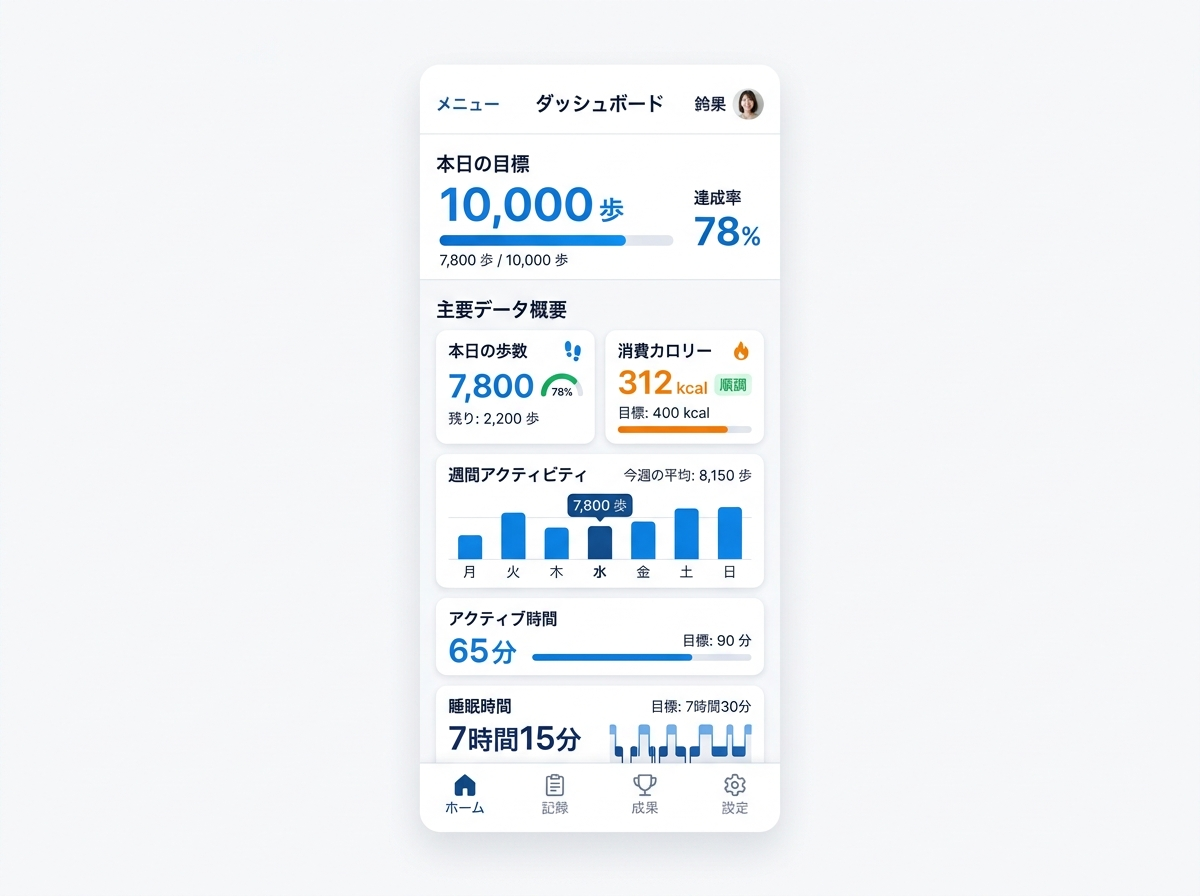
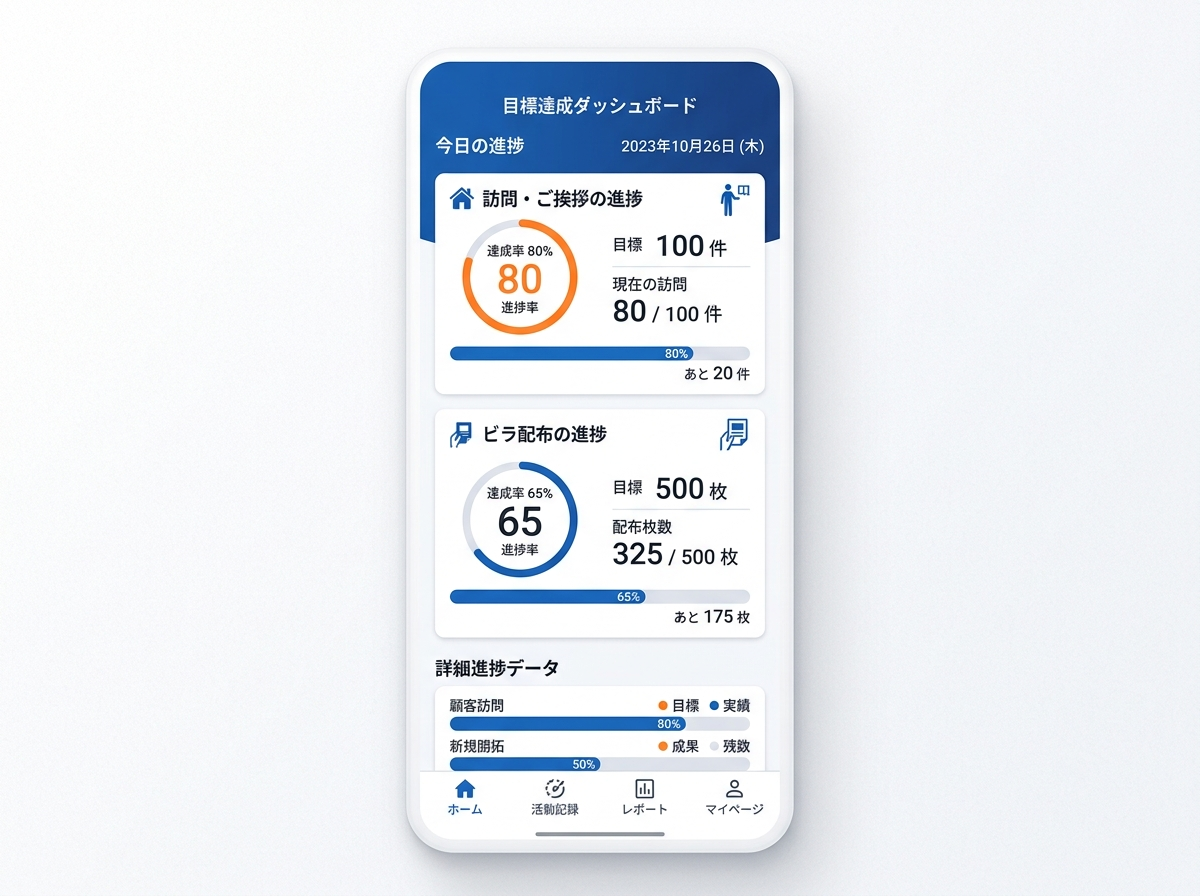
fix: landing page text, dashboard image, image aspect ratio, auth routes, and admin daily targets

Changed region(s): [[0.3392, 0.0625, 0.7092, 1.0]]

diff --git a/src/components/LandingPage.jsx b/src/components/LandingPage.jsx
@@ -13,7 +13,7 @@ export default function LandingPage() {
           <img src="/polistep_logo_new.jpg" alt="PoliStep Logo" style={{ width: '32px', height: '32px', borderRadius: '50%' }} />
           PoliStep
         </div>
-        <Link to="/auth" className="btn-outline">ログイン</Link>
+        <Link to="/auth?mode=login" className="btn-outline">ログイン</Link>
       </header>
 
       {/* ===== Hero (Japanese Volunteer Style) ===== */}
@@ -28,15 +28,12 @@ export default function LandingPage() {
           <p className="hero-subtitle">
             終わりの見えないポスター貼りや戸別訪問。<br/>
             タップ一つであなたの活動をマップとグラフに変換し、<br/>
-            支援者の心を動かす「努力の証明」を生み出します。
+            自身のモチベーション維持と、チームへの日報共有を圧倒的に簡単にします。
           </p>
           <div className="hero-cta-group">
-            <Link to="/auth" className="btn-primary" style={{ fontSize: '1.1rem', padding: '1rem 2rem' }}>
-              【完全無料】活動記録を始める <ArrowRight size={18} />
+            <Link to="/auth?mode=register" className="btn-primary" style={{ fontSize: '1.1rem', padding: '1rem 2rem' }}>
+              【完全無料】アカウント登録して始める <ArrowRight size={18} />
             </Link>
-            <a href="https://poliside.net" target="_blank" rel="noopener noreferrer" className="btn-secondary" style={{ textDecoration: 'none' }}>
-              PoliSideに相談する
-            </a>
           </div>
         </div>
         <div className="hero-visual-container">
@@ -81,7 +78,7 @@ export default function LandingPage() {
             <img src="/story4_success.jpg" alt="チーム全員でスマホを持ち笑顔で歩く" className="comic-panel-img" />
             <div className="comic-text-box">
               <div className="comic-dialogue" style={{ fontSize: '1.25rem', textAlign: 'center', background: 'transparent', border: 'none' }}>迷いなく、やり切った。</div>
-              <div className="comic-narration" style={{ textAlign: 'center' }}>明確な計画のもと蓄積された膨大な記録。<br/>その「努力の証明」を発信した時、自然と支援の輪が広がっていきます。</div>
+              <div className="comic-narration" style={{ textAlign: 'center' }}>明確な計画のもと蓄積された膨大な記録。<br/>身内のLINEグループ等で「今日はこれだけ回った！」と日報共有し、モチベーションを高め合えます。</div>
             </div>
           </div>
         </div>
@@ -126,9 +123,9 @@ export default function LandingPage() {
         <div className="feature-row">
           <div className="feature-row-text">
             <div className="feature-num">03</div>
-            <h3 className="feature-row-title">活動のSNS用画像ジェネレーター</h3>
+            <h3 className="feature-row-title">チーム・身内向けの日報画像自動生成</h3>
             <p className="section-desc">
-              1日の終わりに、今日の活動実績（回った地域や挨拶した件数）が自動合成された縦型の画像を作成。そのままSNSへ投稿して、支持者へ努力をスマートにアピールできます。
+              1日の終わりに、今日の活動実績（回った地域や挨拶した件数）が自動合成された縦型の画像を作成。そのまま支援チームや身内のLINEグループに共有し、毎日の進捗報告とモチベーション維持に活用できます。
             </p>
           </div>
           <div className="feature-row-visual">
@@ -140,9 +137,9 @@ export default function LandingPage() {
         <div className="feature-row reverse">
           <div className="feature-row-text">
             <div className="feature-num">04</div>
-            <h3 className="feature-row-title">リアルタイムな共有</h3>
+            <h3 className="feature-row-title">チームメンバーとの分担・シェア</h3>
             <p className="section-desc">
-              支援者やスタッフと同じマップを共有。誰がどこを回ったのかがリアルタイムで反映されるため、重複訪問を防ぎ、チーム全体での戦略的なドブ板活動を実現します。
+              支援者やスタッフと同じマップを共有し、複数人で手分けして作業が可能。誰がどこを回ったのかがリアルタイムで反映されるため、重複訪問を防ぎ、チーム全体での効率的な活動管理を実現します。
             </p>
           </div>
           <div className="feature-row-visual">
@@ -188,6 +185,9 @@ export default function LandingPage() {
           <Link to="/privacy" className="footer-link">プライバシーポリシー</Link>
           <Link to="/legal" className="footer-link">特定商取引法に基づく表記</Link>
           <Link to="/auth" className="footer-link">ログイン / 新規登録</Link>
+        </div>
+        <div style={{ textAlign: 'center', color: '#64748B', fontSize: '0.85rem', marginBottom: '1.5rem', lineHeight: 1.6 }}>
+          ※現在PoliStepは「完全無料のお試し期間（β版）」として提供しております。<br/>万が一の不具合によるデータ消失等について完全な保証はできかねる場合がございます。あらかじめご了承ください。
         </div>
         <div className="footer-copy">
           &copy; {new Date().getFullYear()} PoliStep. All rights reserved.

diff --git a/src/components/AdminDashboard.jsx b/src/components/AdminDashboard.jsx
@@ -125,7 +125,10 @@ export default function AdminDashboard() {
               目標・期日を再設定する
             </Link>
           </div>
-          <p style={{ color: '#94A3B8', marginBottom: '0.5rem', fontSize: '1.1rem' }}>目標 {user.target_visits?.toLocaleString() || '---'} 件中、現在 <span style={{ color: '#2563EB', fontSize: '1.5rem', fontWeight: 900 }}>{stats.talked.toLocaleString()}</span> 件達成！</p>
+          <p style={{ color: '#94A3B8', marginBottom: '0.2rem', fontSize: '1.1rem' }}>目標 {user.target_visits?.toLocaleString() || '---'} 件中、現在 <span style={{ color: '#2563EB', fontSize: '1.5rem', fontWeight: 900 }}>{stats.talked.toLocaleString()}</span> 件達成！</p>
+          <p style={{ color: '#CBD5E1', marginBottom: '0.5rem', fontSize: '0.9rem' }}>
+            （残り {daysLeft} 日 / 目標達成には1日あたり約 <strong style={{ color: 'white' }}>{Math.ceil(((user.target_visits || 0) - stats.talked) / daysLeft) > 0 ? Math.ceil(((user.target_visits || 0) - stats.talked) / daysLeft) : 0}</strong> 件必要）
+          </p>
           <div className="progress-container" style={{ height: '2rem', background: '#334155' }}>
             <div className="progress-fill" style={{ width: `${Math.min(100, (stats.talked / (user.target_visits || 1)) * 100)}%`, fontSize: '1rem', background: '#2563EB' }}>
               {((stats.talked / (user.target_visits || 1)) * 100).toFixed(1)}%
@@ -141,7 +144,10 @@ export default function AdminDashboard() {
               <Target size={28} color="#F59E0B" /> ビラ・チラシ配布の進捗
             </h3>
           </div>
-          <p style={{ color: '#94A3B8', marginBottom: '0.5rem', fontSize: '1.1rem' }}>目標 {user.target_flyers?.toLocaleString() || '---'} 枚中、現在 <span style={{ color: '#F59E0B', fontSize: '1.5rem', fontWeight: 900 }}>{(stats.absent + stats.flyer + (stats.flyerCount || 0)).toLocaleString()}</span> 枚達成！</p>
+          <p style={{ color: '#94A3B8', marginBottom: '0.2rem', fontSize: '1.1rem' }}>目標 {user.target_flyers?.toLocaleString() || '---'} 枚中、現在 <span style={{ color: '#F59E0B', fontSize: '1.5rem', fontWeight: 900 }}>{(stats.absent + stats.flyer + (stats.flyerCount || 0)).toLocaleString()}</span> 枚達成！</p>
+          <p style={{ color: '#CBD5E1', marginBottom: '0.5rem', fontSize: '0.9rem' }}>
+            （残り {daysLeft} 日 / 目標達成には1日あたり約 <strong style={{ color: 'white' }}>{Math.ceil(((user.target_flyers || 0) - (stats.absent + stats.flyer + (stats.flyerCount || 0))) / daysLeft) > 0 ? Math.ceil(((user.target_flyers || 0) - (stats.absent + stats.flyer + (stats.flyerCount || 0))) / daysLeft) : 0}</strong> 枚必要）
+          </p>
           <div className="progress-container" style={{ height: '2rem', background: '#334155' }}>
             <div className="progress-fill" style={{ width: `${Math.min(100, ((stats.absent + stats.flyer + (stats.flyerCount || 0)) / (user.target_flyers || 1)) * 100)}%`, fontSize: '1rem', background: '#F59E0B' }}>
               {(((stats.absent + stats.flyer + (stats.flyerCount || 0)) / (user.target_flyers || 1)) * 100).toFixed(1)}%
@@ -198,9 +204,12 @@ export default function AdminDashboard() {
               <Share2 size={24} color="var(--color-primary)" />
               <h3 style={{ fontSize: '1.5rem', fontWeight: 800, color: 'var(--color-secondary)' }}>スタッフ共有リンク</h3>
             </div>
-            <p style={{ color: '#475569', marginBottom: '1.5rem', fontSize: '1rem', lineHeight: 1.7 }}>
+            <p style={{ color: '#475569', marginBottom: '1rem', fontSize: '1rem', lineHeight: 1.7 }}>
               以下のURLをボランティアスタッフにLINEやメールで共有するだけ！<strong>登録不要</strong>ですぐにマップで活動を記録できます。
             </p>
+            <div style={{ background: '#FFFBEB', padding: '0.75rem', borderRadius: '8px', borderLeft: '4px solid #F59E0B', marginBottom: '1.5rem', fontSize: '0.85rem', color: '#92400E' }}>
+              <strong>※ご注意：</strong>スタッフ共有リンクからアクセスした画面では、この「管理者ダッシュボード（進捗グラフ等）」は閲覧できません。記録専用のマップ画面が開きます。
+            </div>
             <div style={{ display: 'flex', gap: '0.75rem', alignItems: 'center', flexDirection: 'column' }}>
               <div style={{ width: '100%', padding: '0.875rem 1rem', background: '#F1F5F9', borderRadius: 'var(--radius-md)', border: '1.5px solid var(--border-light)', fontSize: '0.85rem', color: '#334155', wordBreak: 'break-all', fontFamily: 'monospace', lineHeight: 1.6 }}>
                 {getShareUrl()}

diff --git a/src/index.css b/src/index.css
@@ -183,9 +183,7 @@ body, html {
 .feature-row.reverse { flex-direction: row-reverse; }
 .feature-row-text { flex: 1 1 360px; }
 .feature-row-visual { flex: 1 1 400px; display: flex; justify-content: center; position: relative; }
-.feature-row-visual img { 
-  width: 100%; max-width: 420px; border-radius: var(--radius-lg); box-shadow: var(--shadow-lg); border: 1px solid var(--border-light); 
-}
+.feature-row-visual img { object-fit: contain; max-height: 400px; width: 100%; max-width: 420px; border-radius: var(--radius-lg); box-shadow: 0 10px 30px -10px rgba(0,0,0,0.1); border: 1px solid var(--border-light); }
 .feature-num {
   font-size: 4rem; font-weight: 900; color: var(--primary-light); line-height: 1; margin-bottom: 0.5rem;
 }

diff --git a/src/components/AuthScreen.jsx b/src/components/AuthScreen.jsx
@@ -5,7 +5,10 @@ import { supabase } from '../lib/supabase';
 
 export default function AuthScreen() {
   const navigate = useNavigate();
-  const [isLogin, setIsLogin] = useState(true);
+  const [isLogin, setIsLogin] = useState(() => {
+    const searchParams = new URLSearchParams(window.location.search);
+    return searchParams.get('mode') !== 'register';
+  });
   const [email, setEmail] = useState('');
   const [password, setPassword] = useState('');
   const [displayName, setDisplayName] = useState('');
